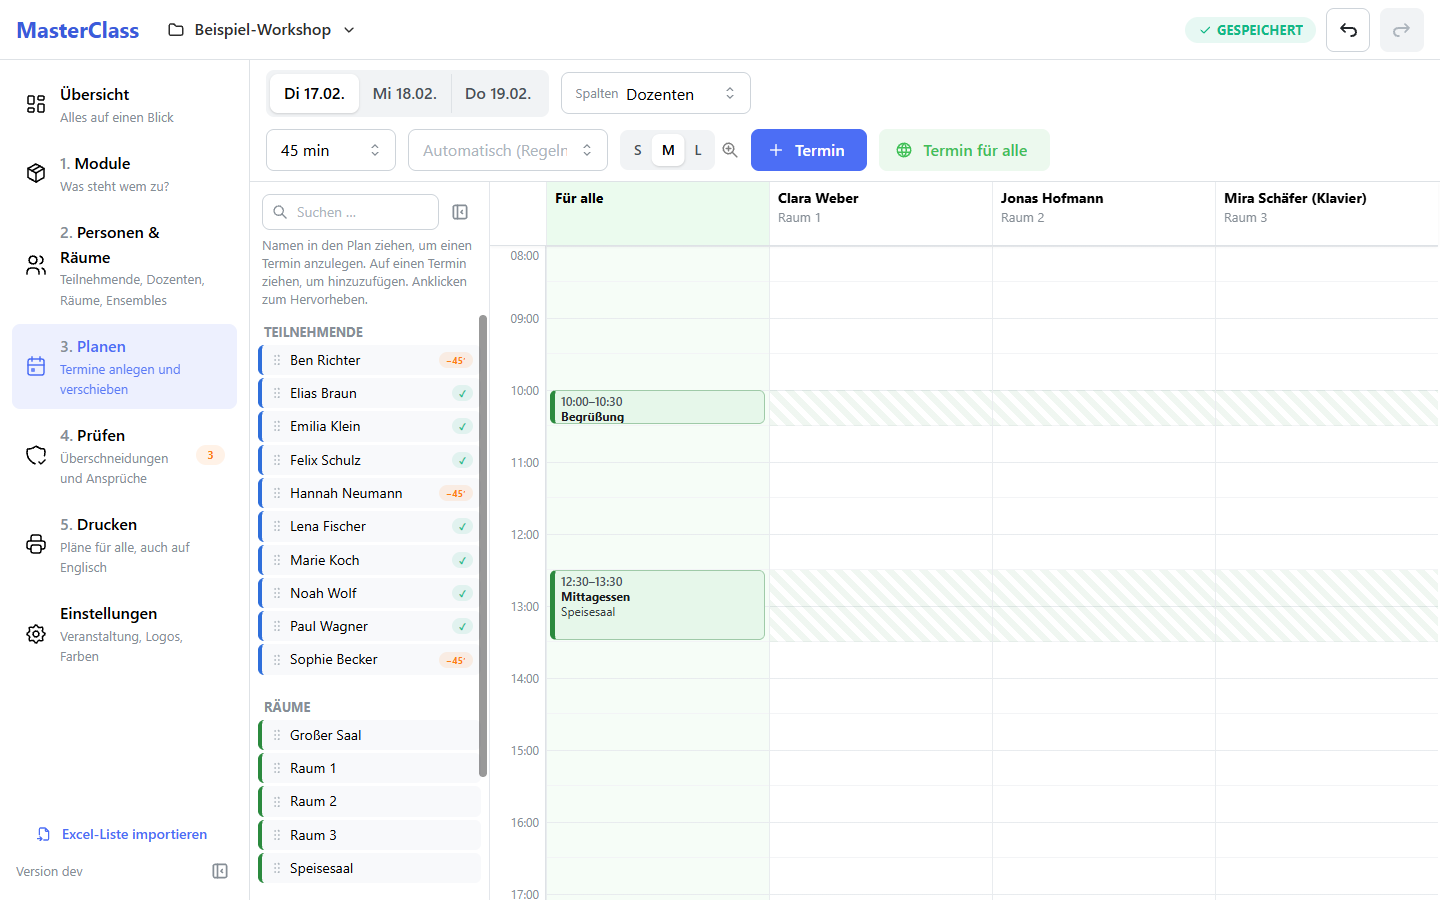
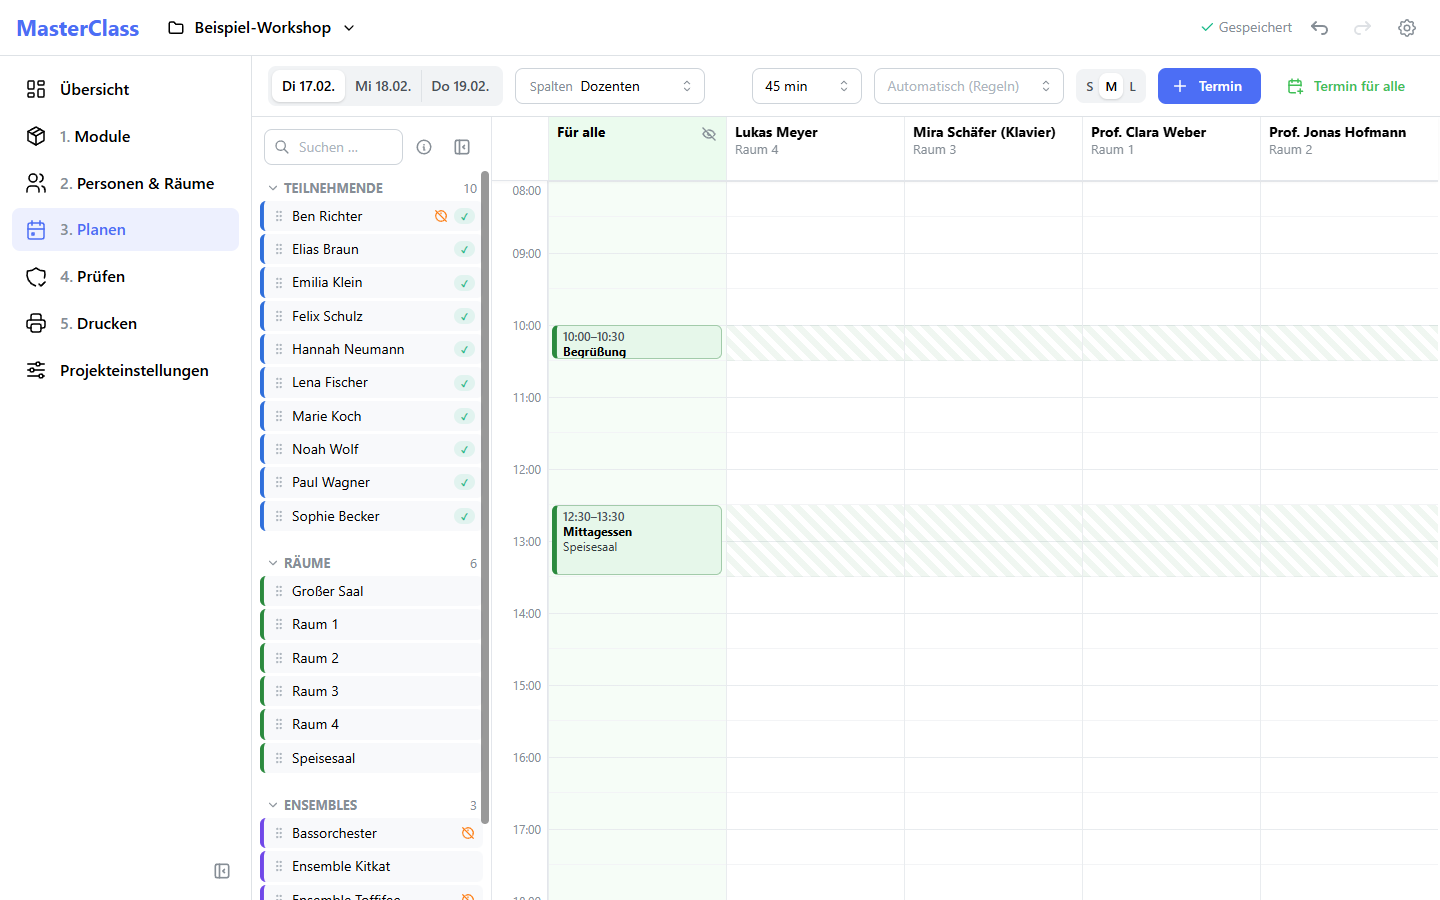
Neu in 2.6: Abwesenheiten im Planer, Spalte „Für alle“ ausblendbar

diff --git a/docs/ANLEITUNG.md b/docs/ANLEITUNG.md
@@ -198,7 +198,7 @@ Im Bearbeiten-Fenster:
   ![Automatisch mit belegt unter einer Bedingung](bilder/06b-bedingung.png)
 - **Gebuchte Module** – daraus ergibt sich, wie viel Unterricht der Person zusteht.
 - **Sprache des gedruckten Plans** – **English** für Teilnehmende, die kein Deutsch sprechen (siehe [Abschnitt 9](#9-schritt-5-drucken--auch-auf-englisch)). In der Liste steht dann ein kleines „EN“ hinter dem Namen.
-- **Nicht verfügbar** – z. B. spätere Anreise oder früher abreisen. Wird die Person in dieser Zeit eingeplant, meldet MasterClass das.
+- **Nicht verfügbar** – z. B. spätere Anreise oder früher abreisen, mit Grund. Im Planer ist diese Zeit [schraffiert](#7-schritt-3-planen); wird die Person trotzdem eingeplant, meldet MasterClass das.
 
 ## 6. Anmeldeliste aus Excel importieren
 
@@ -239,7 +239,7 @@ Oben wählen Sie den **Tag** und, was die **Spalten** sein sollen – meist Doze
 - In einer Spalte mit der Maus einen Zeitraum **aufziehen** → das Termin-Fenster öffnet sich.
 - Einen **Namen aus der Liste links** in den Plan ziehen → Termin mit Spalte + Person, Dauer wie oben eingestellt (z. B. 45 min).
 - Einen Namen **auf einen vorhandenen Termin** ziehen → die Person wird hinzugefügt.
-- **„+ Termin“** oder **„Termin für alle“** (Mahlzeiten, Konzerte …).
+- **„+ Termin“** oder **„Termin für alle“** (Kalender mit Plus – für Mahlzeiten, Konzerte …).
 
 **Ändern:** Termin anklicken (Fenster öffnet sich), ziehen zum Verschieben (auch in eine andere Spalte), am unteren Rand ziehen für die Dauer.
 
@@ -251,7 +251,18 @@ Im Termin-Fenster sehen Sie sofort, ob es Überschneidungen gibt, und wer **auto
 
 **Rote Termine** überschneiden sich mit einem anderen. Die rote Zahl im Spaltenkopf zeigt, wie viele es in dieser Spalte sind.
 
-**Teilnehmende als Spalten:** Wählen Sie oben „Spalten: Teilnehmende“, steht im Kopf jeder Spalte, was der Person laut Modul **noch fehlt** (z. B. „fehlt: Korrepetition 45′“) oder „✓ alles geplant“. Mit der Maus darauf sehen Sie die Details.
+**Spalte „Für alle“:** Ganz links stehen die Termine, die für alle gelten (Mahlzeiten, Begrüßung, Konzert). In den anderen Spalten sind sie als grün gestreiftes Band zu sehen. Brauchen Sie den Platz, blenden Sie die Spalte mit dem durchgestrichenen Auge im Spaltenkopf aus. Dann stehen Uhrzeit und Titel dieser Termine direkt in den Bändern der anderen Spalten; ein Klick darauf öffnet den Termin. Der grüne Knopf mit der Weltkugel oben links in der Ecke blendet die Spalte wieder ein. MasterClass merkt sich die Einstellung. Neue Termine für alle legen Sie weiterhin mit **„Termin für alle“** an.
+
+![Spalte „Für alle“ ausgeblendet](bilder/08b-fuer-alle-ausgeblendet.png)
+
+**Abwesenheiten:** Ist jemand zeitweise nicht verfügbar (eingetragen bei der Person unter [„Nicht verfügbar“](#5-schritt-2-personen-räume-und-ensembles), z. B. spätere Anreise), sehen Sie das beim Planen sofort:
+
+- In der **Spalte der Person** (bzw. einer Gruppe, zu der sie gehört) ist die Zeit grau schraffiert, mit dem Grund oben im Band. Mit der Maus darauf stehen Uhrzeit und Grund.
+- In der **Namensliste** steht eine durchgestrichene Uhr (orange) bei allen, die an diesem Tag ganz oder teilweise fehlen – bei einer Gruppe auch, wenn ein Mitglied fehlt. Mit der Maus darauf sehen Sie, wer wann fehlt.
+- Klicken Sie einen Namen in der Liste an oder ziehen Sie ihn gerade in den Plan, erscheint seine Abwesenheit **orange in allen Spalten** – so sehen Sie auch in der Dozenten-Ansicht, wann eine Teilnehmerin nicht kann.
+- Wird jemand trotzdem in dieser Zeit eingeplant, meldet MasterClass „Nicht verfügbar!“, und unter „Prüfen“ steht es bei den Abwesenheiten.
+
+**Teilnehmende als Spalten:** Wählen Sie oben „Spalten: Teilnehmende“, steht im Kopf jeder Spalte, was der Person laut Modul **noch fehlt** (z. B. „fehlt: Korrepetition 45′“) oder „✓ alles geplant“. Mit der Maus darauf sehen Sie die Details. Im Bild reist Ben Richter erst mittags an – seine Spalte ist bis 12 Uhr schraffiert.
 
 ![Teilnehmende als Spalten](bilder/08-planer-teilnehmende.png)
 
